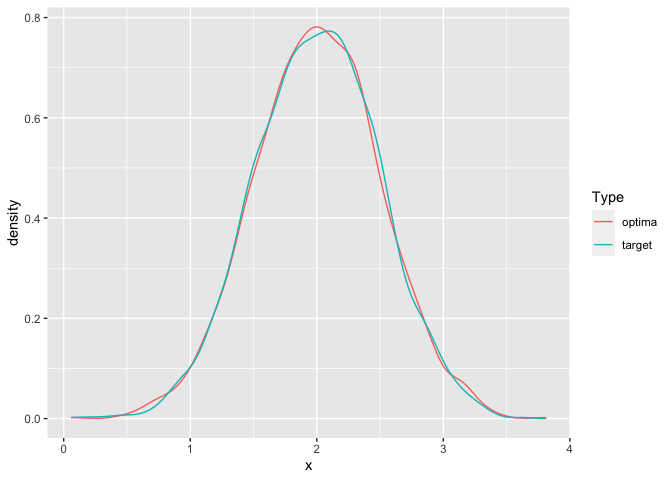
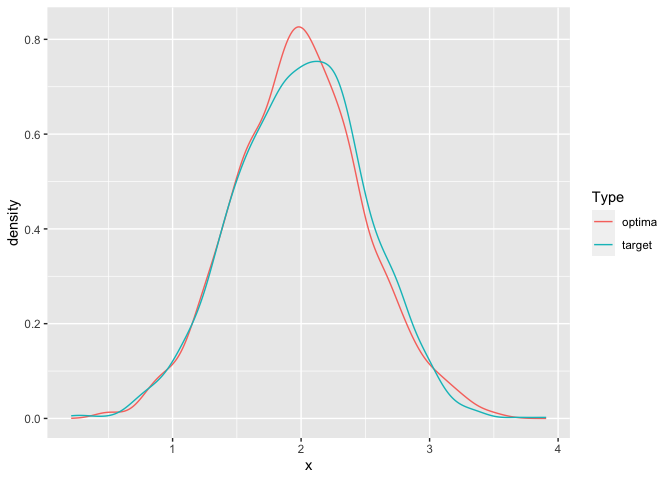
Add Zenodo DOI for release

diff --git a/README.md b/README.md
@@ -6,6 +6,7 @@
 <!-- badges: start -->
 
 [![R-CMD-check](https://github.com/hhau/pbbo/actions/workflows/R-CMD-check.yaml/badge.svg)](https://github.com/hhau/pbbo/actions/workflows/R-CMD-check.yaml)
+[![DOI](https://zenodo.org/badge/470232798.svg)](https://zenodo.org/badge/latestdoi/470232798)
 <!-- badges: end -->
 
 `pbbo` uses information you supply about the prior predictive
@@ -70,15 +71,15 @@ pbbo_res <- suppressWarnings(pbbo(
   bayes_opt_iters_per_batch = 50,
   bayes_opt_design_points_per_batch = 40
 ))
-#> INFO [2022-06-29 15:57:12] Starting stage one CRS2 optimiser
-#> INFO [2022-06-29 15:57:19] Starting Bayes opt batch 1
+#> INFO [2022-07-11 11:29:09] Starting stage one CRS2 optimiser
+#> INFO [2022-07-11 11:29:16] Starting Bayes opt batch 1
 
 opt_lambda <- pbbo_res %>%
   get_best_lambda()
 
 print(opt_lambda)
-#>        mu     sigma 
-#> 1.9989003 0.4923879
+#>       mu    sigma 
+#> 1.994877 0.495154
 ```
 
 We can compare the prior predictive distribution at the optima against
